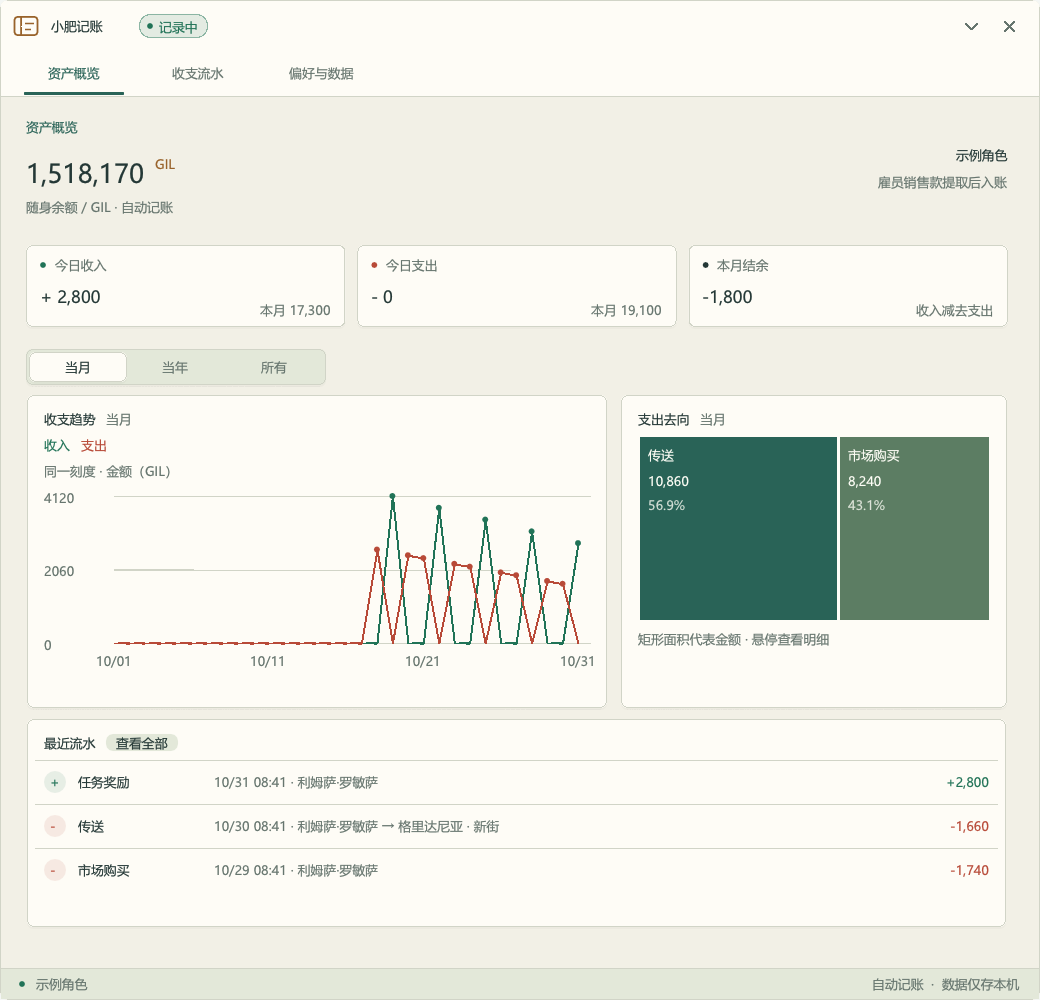
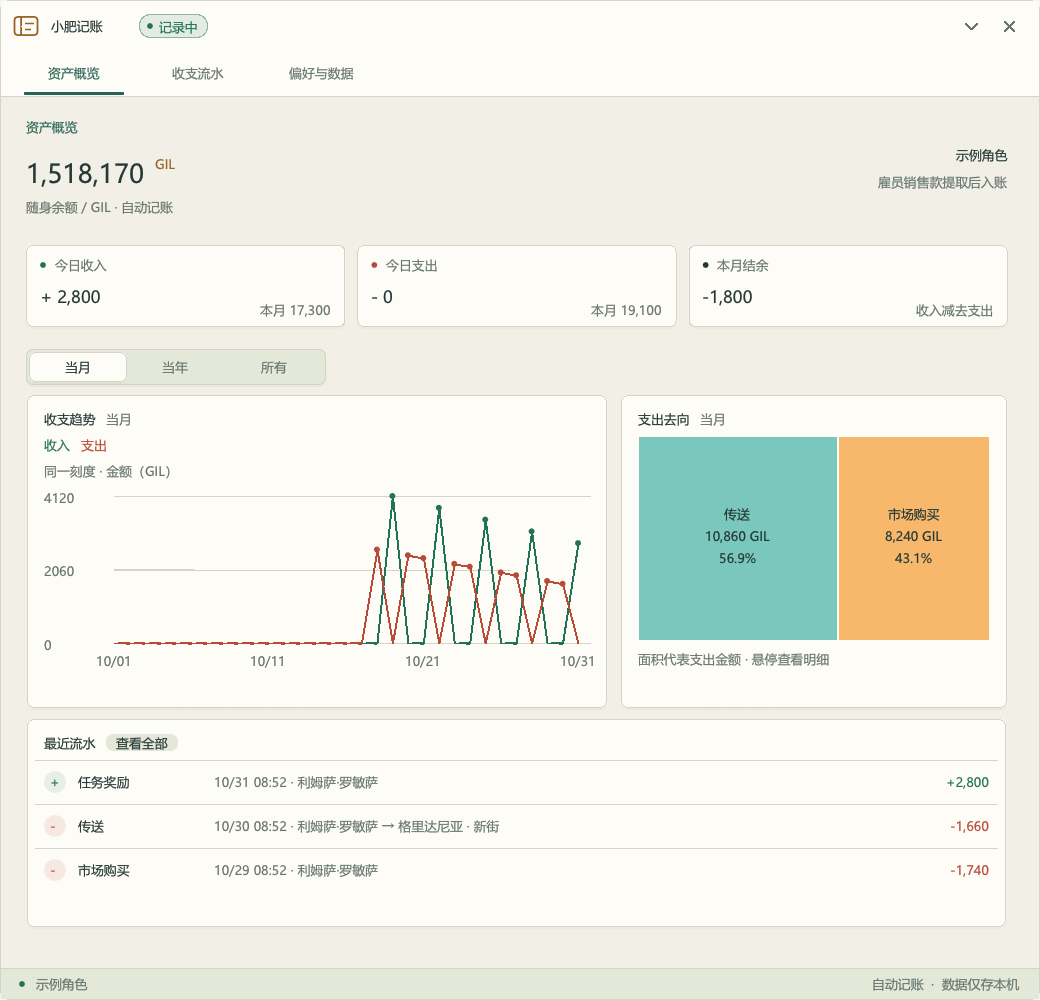
Prepare first public preview release after maintainer game testing

Changed region(s): [[0.6154, 0.434, 0.9538, 0.682]]

diff --git a/src/JiZhang/LedgerView.cs b/src/JiZhang/LedgerView.cs
@@ -294,28 +294,44 @@ internal sealed partial class LedgerView(ILedgerUiContext plugin)
         ImGui.Dummy(new(1,Math.Max(0,height-112)*Unit));
     }
     private void DrawCategories() {
-        Vector4[] colors=[Accent,new(.36f,.49f,.39f,1),Gold,new(.34f,.43f,.44f,1),new(.47f,.39f,.29f,1)];
-        var origin=ImGui.GetCursorScreenPos();var size=new Vector2(ImGui.GetContentRegionAvail().X,185*Unit);
+        // Colors belong to categories rather than their rank: changing periods does not recolor them.
+        Vector4 CategoryColor(Category c)=>c switch {
+            Category.Teleport=>new(.48f,.78f,.74f,1),Category.MarketPurchase=>new(.97f,.72f,.42f,1),
+            Category.NpcPurchase=>new(.95f,.58f,.51f,1),Category.Repair=>new(.43f,.67f,.87f,1),
+            Category.PlayerTrade=>new(.68f,.62f,.83f,1),Category.RetainerTransfer=>new(.53f,.77f,.57f,1),
+            Category.FreeCompanyTransfer=>new(.83f,.69f,.47f,1),_=>new(.66f,.71f,.73f,1)
+        };
+        var origin=ImGui.GetCursorScreenPos();var size=new Vector2(ImGui.GetContentRegionAvail().X,205*Unit);
         var total=groups.Sum(g=>g.Amount);var draw=ImGui.GetWindowDrawList();
-        foreach(var cell in Treemap.Layout(groups.Select(g=>g.Amount).ToArray(),size.X,size.Y)) {
+        var cells=Treemap.Layout(groups.Select(g=>g.Amount).ToArray(),size.X,size.Y);
+        var mouse=ImGui.GetMousePos()-origin;
+        var hovered=ImGui.IsMouseHoveringRect(origin,origin+size);
+        TreeCell? hit=null;
+        foreach(var cell in cells) {
             var p=origin+new Vector2((float)cell.X,(float)cell.Y);var end=p+new Vector2((float)cell.Width,(float)cell.Height);
-            var g=groups[cell.Index];var fill=colors[cell.Index%colors.Length];
-            draw.AddRectFilled(p,end,Color(fill),2*Unit);
-            draw.AddRect(p,end,Color(Surface),0,ImDrawFlags.None,2*Unit);
-            draw.PushClipRect(p+new Vector2(5*Unit),end-new Vector2(5*Unit),true);
-            var label=g.Category.Label();
-            if(cell.Width>ImGui.CalcTextSize(label).X+16*Unit&&cell.Height>28*Unit)draw.AddText(p+new Vector2(10,10)*Unit,Color(new(1,1,.97f,1)),label);
-            if(cell.Width>90*Unit&&cell.Height>70*Unit){draw.AddText(p+new Vector2(10,36)*Unit,Color(new(1,1,.97f,1)),Money(g.Amount));draw.AddText(p+new Vector2(10,60)*Unit,Color(new(1,1,.97f,.8f)),((double)g.Amount/total).ToString("P1"));}
+            var g=groups[cell.Index];var fill=CategoryColor(g.Category);
+            var active=hovered&&mouse.X>=cell.X&&mouse.X<cell.X+cell.Width&&mouse.Y>=cell.Y&&mouse.Y<cell.Y+cell.Height;
+            if(active){hit=cell;fill=Vector4.Lerp(fill,Vector4.One,.12f);}
+            draw.AddRectFilled(p,end,Color(fill));
+            draw.AddRect(p,end,Color(Surface),0,ImDrawFlags.None,Unit);
+            if(cell.Width<=12*Unit||cell.Height<=12*Unit)continue;
+            var label=g.Category.Label();var width=(float)cell.Width-16*Unit;
+            while(label.Length>1&&ImGui.CalcTextSize(label).X>width)label=label[..^2]+"…";
+            var lines=new List<string>();
+            if(ImGui.CalcTextSize(label).X<=width&&cell.Height>30*Unit)lines.Add(label);
+            var amount=Money(g.Amount)+" GIL";var percent=((double)g.Amount/total).ToString("P1");
+            if(lines.Count>0&&cell.Height>58*Unit&&ImGui.CalcTextSize(amount).X<=width)lines.Add(amount);
+            if(lines.Count>1&&cell.Height>84*Unit&&ImGui.CalcTextSize(percent).X<=width)lines.Add(percent);
+            var lineHeight=22*Unit;var top=(p.Y+end.Y-lines.Count*lineHeight)/2;
+            draw.PushClipRect(p+new Vector2(4*Unit),end-new Vector2(4*Unit),true);
+            for(var i=0;i<lines.Count;i++)draw.AddText(new((p.X+end.X-ImGui.CalcTextSize(lines[i]).X)/2,top+i*lineHeight),Color(Ink),lines[i]);
             draw.PopClipRect();
         }
         ImGui.InvisibleButton("spending-treemap",size);
-        if(ImGui.IsItemHovered()) {
-            var mouse=ImGui.GetMousePos()-origin;
-            foreach(var c in Treemap.Layout(groups.Select(g=>g.Amount).ToArray(),size.X,size.Y))if(mouse.X>=c.X&&mouse.X<c.X+c.Width&&mouse.Y>=c.Y&&mouse.Y<c.Y+c.Height) {
-                var g=groups[c.Index];Tooltip($"{g.Category.Label()}\n支出 {Money(g.Amount)} GIL · {(double)g.Amount/total:P1}");break;
-            }
+        if(ImGui.IsItemHovered()&&hit is {} c) {
+            var g=groups[c.Index];Tooltip($"{g.Category.Label()}\n支出 {Money(g.Amount)} GIL · {(double)g.Amount/total:P1}");
         }
-        ImGui.TextColored(Muted,"矩形面积代表金额 · 悬停查看明细");
+        ImGui.TextColored(Muted,"面积代表支出金额 · 悬停查看明细");
     }
     private void DrawTrend() {
         var income=trend.Max(t=>t.Income);var expense=trend.Max(t=>t.Expense);

diff --git a/src/JiZhang.Core/Reporting.cs b/src/JiZhang.Core/Reporting.cs
@@ -24,21 +24,40 @@ public sealed record LedgerReport(ReportBucket[] Buckets, (Category Category,lon
 public readonly record struct TreeCell(int Index, double X, double Y, double Width, double Height);
 public static class Treemap
 {
-    // Balanced binary area partition: no hidden minimum area and no unaccounted category.
+    // Squarified treemap: grow each strip only while its worst aspect ratio improves.
     public static TreeCell[] Layout(IReadOnlyList<long> amounts, double width, double height) {
-        if(width<=0||height<=0||amounts.Any(x=>x<=0))return [];
-        var result=new List<TreeCell>();
-        void Split(int first,int count,double x,double y,double w,double h) {
-            if(count==0)return;
-            if(count==1){result.Add(new(first,x,y,w,h));return;}
-            var total=amounts.Skip(first).Take(count).Sum(v=>(double)v);double sum=0;var cut=1;
-            for(var i=1;i<count;i++){sum+=amounts[first+i-1];cut=i;if(sum>=total/2)break;}
-            // Choose the closer split, while keeping both groups nonempty.
-            if(cut>1&&Math.Abs(sum-amounts[first+cut-1]-total/2)<Math.Abs(sum-total/2)){sum-=amounts[first+--cut];}
-            var ratio=sum/total;
-            if(w>=h){Split(first,cut,x,y,w*ratio,h);Split(first+cut,count-cut,x+w*ratio,y,w*(1-ratio),h);}
-            else {Split(first,cut,x,y,w,h*ratio);Split(first+cut,count-cut,x,y+h*ratio,w,h*(1-ratio));}
+        if(width<=0||height<=0||!double.IsFinite(width)||!double.IsFinite(height)||amounts.Any(x=>x<=0))return [];
+        var total=amounts.Sum(v=>(double)v);
+        if(total==0)return [];
+        var items=amounts.Select((v,i)=>(Index:i,Area:(double)v/total*width*height)).OrderByDescending(x=>x.Area).ToArray();
+        var result=new List<TreeCell>();double x=0,y=0,w=width,h=height;
+        double Worst(int start,int count,double side) {
+            var sum=items.Skip(start).Take(count).Sum(v=>v.Area);
+            var max=items[start].Area;var min=items[start+count-1].Area;
+            return Math.Max(side*side*max/(sum*sum),sum*sum/(side*side*min));
         }
-        Split(0,amounts.Count,0,0,width,height);return result.ToArray();
+        for(var first=0;first<items.Length;) {
+            var side=Math.Min(w,h);var count=1;
+            while(first+count<items.Length&&Worst(first,count+1,side)<=Worst(first,count,side))count++;
+            var area=items.Skip(first).Take(count).Sum(v=>v.Area);
+            var last=first+count==items.Length;
+            if(w>=h) {
+                var strip=last?w:area/h;double cy=y;
+                for(var i=0;i<count;i++) {
+                    var item=items[first+i];var length=i==count-1?y+h-cy:item.Area/strip;
+                    result.Add(new(item.Index,x,cy,strip,length));cy+=length;
+                }
+                x+=strip;w=Math.Max(0,w-strip);
+            }else {
+                var strip=last?h:area/w;double cx=x;
+                for(var i=0;i<count;i++) {
+                    var item=items[first+i];var length=i==count-1?x+w-cx:item.Area/strip;
+                    result.Add(new(item.Index,cx,y,length,strip));cx+=length;
+                }
+                y+=strip;h=Math.Max(0,h-strip);
+            }
+            first+=count;
+        }
+        return result.ToArray();
     }
 }

diff --git a/tests/JiZhang.Tests/ReportingTests.cs b/tests/JiZhang.Tests/ReportingTests.cs
@@ -26,4 +26,19 @@ public class ReportingTests
             foreach(var d in cells.Where(d=>d.Index!=c.Index))Assert.True(Math.Min(c.X+c.Width,d.X+d.Width)-Math.Max(c.X,d.X)<.0001||Math.Min(c.Y+c.Height,d.Y+d.Height)-Math.Max(c.Y,d.Y)<.0001);
         }
     }
+    [Fact] public void EqualCategoriesFormCompactTilesAndRetainInputIdentity() {
+        var cells=Treemap.Layout([1,1,1,1],200,200);Assert.Equal(4,cells.Length);
+        Assert.All(cells,c=>{Assert.Equal(100,c.Width,6);Assert.Equal(100,c.Height,6);});
+        long[] amounts=[1,9,3,7,2];var mixed=Treemap.Layout(amounts,360,220);
+        foreach(var cell in mixed)Assert.Equal((double)amounts[cell.Index]/amounts.Sum(),cell.Width*cell.Height/(360*220),8);
+        Assert.Empty(Treemap.Layout([],200,200));Assert.Empty(Treemap.Layout([0,1],200,200));
+    }
+    [Fact] public void SingleCategoryFillsChartAndInvalidDimensionsAreRejected() {
+        Assert.Equal(new TreeCell(0,0,0,320,205),Assert.Single(Treemap.Layout([750],320,205)));
+        Assert.Empty(Treemap.Layout([1],0,205));
+        Assert.Empty(Treemap.Layout([1],320,-1));
+        Assert.Empty(Treemap.Layout([1],double.NaN,205));
+        Assert.Empty(Treemap.Layout([1],320,double.PositiveInfinity));
+        Assert.Empty(Treemap.Layout([-1,2],320,205));
+    }
 }

diff --git a/docs/ACCEPTANCE.md b/docs/ACCEPTANCE.md
@@ -1,5 +1,9 @@
 # 国服验收与发布记录
 
+## 2026-10-31 维护者游戏测试反馈
+
+维护者反馈“游戏里测试基本 ok”，据此发布 0.1.1.0 公开预览版。最新构建零警告、零错误，47 项核心测试通过。下方未勾选项仍作为后续完整回归清单，不代表已逐项执行。
+
 ## 已验证
 
 - 本机国服 Dalamud 15.0.3.9 / .NET 10：Debug 与 Release 编译通过，零警告、零错误。
@@ -26,22 +30,22 @@
 - [ ] 玩家交易收入／支出／取消、雇员存取和部队存取正确；销售通知不重复计收入。
 - [ ] 快速连续交易和切图的余额可对账；无法拆分或来源冲突时明确未分类。
 - [ ] 实验识别关闭时全部正常金币变化仍入账，类别为未分类。
-- [ ] 深色分层界面可读、中文无缺字、0.8–1.6 缩放、窄窗口和长列表可操作。
+- [ ] 暖纸白／墨绿界面可读、中文无缺字、0.8–1.6 缩放、窄窗口和长列表可操作。
 - [ ] 今日／本月／趋势／分类统计核对，转账排除选项有效，差额不计入普通统计。
 - [ ] CSV 中文、时间和金额正确；备份、错误备份、恢复及重载后数据一致。
 - [ ] 用待发包在独立开发插件目录验证依赖加载。
 - [ ] 用本地测试清单指向待发 ZIP 验证自定义仓库安装／更新，正式清单只在发布后更新。
 
-## 当前未完成原因
+## 早期自动化验收限制（历史记录）
 
 本轮 Windows Computer Use 连接失败：`Computer Use native pipe is unavailable`（系统找不到指定的文件，os error 2）；按技能流程重试与重置后仍失败。因此未执行真实游戏交易或宣称游戏内通过。
 
-完成后将实际步骤、版本、日期和结果写入此文件，并设置 `release-validation.json` 的 `passed=true`、`validatedAt` 和 `evidence`。不要用自动测试结果代替国服游戏内验收。
+此次发布依据为维护者直接反馈，已记录在 `release-validation.json`；自动测试与离线渲染结果仅作为补充。
 
-- [ ] 核对仅收入、仅支出、收支相近、峰值差距至少 8 倍四种趋势；确认独立刻度标注、日期和准确悬浮金额。核对圆环分类合计与本月支出一致。
+- [ ] 核对仅收入、仅支出、收支相近、峰值差距至少 8 倍四种趋势；确认独立刻度标注、日期和准确悬浮金额。核对矩形树图分类合计与本月支出一致。
 
 - [ ] 默认关闭窗口推断时，实际市场购买及含金额系统消息仍能匹配新流水；旧未分类记录不凭空补写。检查金额大字不模糊，修改 Dalamud 字号及插件缩放后字形完整。
 
-- [ ] 自绘标题栏拖动、折叠／展开、关闭、ESC 关闭、重新打开、窗口调整尺寸；窄图标轨的提示、切页与滚动；透明子窗口内圆角背景无裁切。与参考截图同尺寸对比结构和密度。
+- [ ] 自绘标题栏拖动、折叠／展开、关闭、ESC 关闭、重新打开、窗口调整尺寸；顶部导航的交互、切页与滚动；透明子窗口内圆角背景无裁切。与参考截图同尺寸对比结构和密度。
 
 - [ ] 游戏内核对导航与胶囊滑动、页面进入、开关与下拉、折叠反向／完整展开，打开系统减少动态效果后背景停止且切换即时完成。离线213帧输入序列已验证，不能替代游戏验收。

diff --git a/RELEASE_NOTES.md b/RELEASE_NOTES.md
@@ -1,0 +1,24 @@
+# 小肥记账 0.1.1 公开预览版
+
+自动记录 FF14 当前角色的随身金币收支，无需手动记账。
+
+- 查看交易时间、地点、用途及前后余额，传送流水显示起点与终点。
+- 当月、当年与全部历史统计，收支折线图和支出去向矩形树图。
+- 流水筛选、历史分类重新识别、CSV 导出、本地备份与恢复。
+- 按角色独立保存 SQLite 账本，雇员销售款提取到钱包后才入账。
+
+## 安装
+
+在国服 Dalamud API 15 插件安装器中添加自定义插件仓库：
+
+https://raw.githubusercontent.com/wynnforthework/FFXIV-JiZhang/main/repo.json
+
+搜索“小肥记账”安装，输入 `/jizhang` 打开。首次启用建立余额基线，不追溯历史。
+
+## 验证与说明
+
+维护者已反馈基本游戏测试通过；构建和 47 项核心测试通过。此版本为公开预览，未逐项确认的交易场景继续验证。无法确认来源时保留未分类，不猜测用途。请在升级前保留账本备份。
+
+代码与文档大量使用 AI 辅助生成，图标为 AI 生成。详见仓库 `docs/AI_USAGE.md`。
+
+附件 `JiZhang.zip` 为插件包，`SHA256SUMS` 用于校验。

diff --git a/README.md b/README.md
@@ -32,11 +32,11 @@
 
 ## 安装与使用
 
-当前为 **0.1.1 开发预览**，正式订阅尚未开放。可从 [GitHub Actions](https://github.com/wynnforthework/FFXIV-JiZhang/actions) 下载 `JiZhang-development` 构建，或按 [本地开发说明](docs/DEVELOPMENT.md) 构建并加载开发插件。
+当前为 **0.1.1 公开预览版**。在卫月插件安装器的设置中添加下面的自定义插件仓库地址，保存后搜索“小肥记账”安装。也可从 [Releases](https://github.com/wynnforthework/FFXIV-JiZhang/releases) 下载 ZIP，按 [本地开发说明](docs/DEVELOPMENT.md) 加载开发插件。
 
 加载后输入 `/jizhang`。首次启用只建立余额基线，后续实际金币变化会自动记录；停用或离线期间的余额差额单独保存，不计入正常收支。
 
-正式发布后的订阅地址：
+插件订阅地址：
 
 ```text
 https://raw.githubusercontent.com/wynnforthework/FFXIV-JiZhang/main/repo.json
